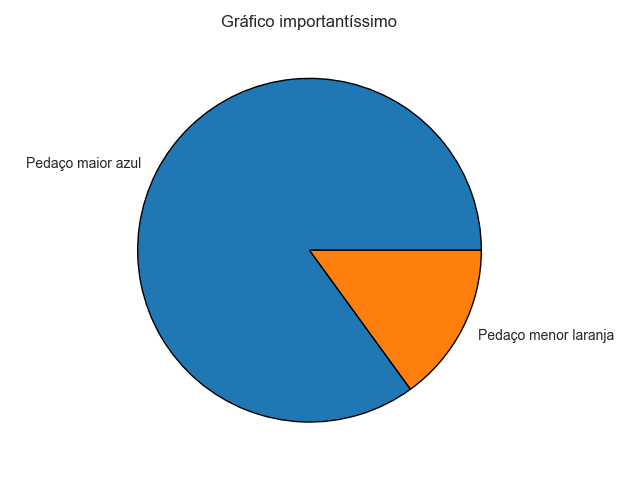
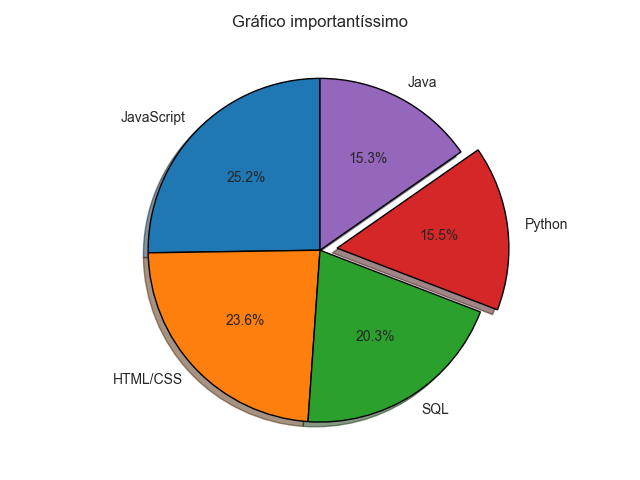
stackplots e pie charts

diff --git a/Python/Matplotlib/pie_chart/pie_chart.py b/Python/Matplotlib/pie_chart/pie_chart.py
@@ -4,12 +4,24 @@ from matplotlib import pyplot as plt
 
 plt.style.use('seaborn-v0_8-dark')
 
-fatias = [85, 15]
-labels = ["Pedaço maior azul", "Pedaço menor laranja"]
+# fatias = [150, 40, 35, 12]
+# labels = ["150", "40", '35', '12']
+# colors = ["#46B9AD", '#C33C91', '#A3CC33', '#001191']
 
-# Wedgeprops é um dicionário contendo configurações específicas para a torta
-# Documentação: 
-plt.pie(fatias, labels=labels, wedgeprops={'edgecolor': 'black'})
+# Language Popularity
+# slices = [59219, 55466, 47544, 36443, 35917, 31991, 27097, 23030, 20524, 18523, 18017, 7920, 7331, 7201, 5833]
+# labels = ['JavaScript', 'HTML/CSS', 'SQL', 'Python', 'Java', 'Bash/Shell/PowerShell', 'C#', 'PHP', 'C++', 'TypeScript', 'C', 'Other(s):', 'Ruby', 'Go', 'Assembly']
+slices = [59219, 55466, 47544, 36443, 35917]
+labels = ['JavaScript', 'HTML/CSS', 'SQL', 'Python', 'Java']
+
+# valores explodidos são exibidos mais evidentemente no pie chart, separados do gráfico. É representado por porcentagem do raio
+explode = [0, 0, 0, 0.1, 0]
+
+# Wedgeprops é um dicionário contendo configurações específicas para a torta. Vide a documentação de wedgedrops
+# Shadow é um argumento extra que adiciona sombrinha no gráfico
+# startangle é um argumento que define a quantos graus o matplotlib deve começar a plotar os itens. Rotação
+# autopct é um argumento que exibe a porcentagem de cada fatia, no formato especificado pelo usuário seguindo documentação
+plt.pie(slices, labels=labels, explode=explode, shadow=True, startangle=90, autopct='%1.1f%%', wedgeprops={'edgecolor': 'black'})
 
 plt.title("Gráfico importantíssimo")
 plt.tight_layout()

diff --git a/Python/Matplotlib/stack_plot/stack_plot.py b/Python/Matplotlib/stack_plot/stack_plot.py
@@ -1,0 +1,27 @@
+# Documentação https://matplotlib.org/stable/api/_as_gen/matplotlib.pyplot.stackplot.html#matplotlib.pyplot.stackplot
+
+from matplotlib import pyplot as plt
+
+plt.style.use('dark_background')
+
+# Data
+minutes = [1, 2, 3, 4, 5, 6, 7, 8, 9]
+player1 = [8, 6, 5, 5, 4, 2, 1, 1, 0]
+player2 = [0, 1, 2, 2, 2, 4, 4, 4, 4]
+player3 = [0, 1, 1, 1, 2, 2, 3, 3, 4]
+labels = ['player 1', 'player 2', 'player 3']
+colors = ["#0F00FF", '#FF00D8', '#00FFCA']
+
+# o primeiro item equivalerá ao X, seguido dos itens a serem plotados baseado no range das próprias listas
+plt.stackplot(minutes, player1, player2, player3, labels=labels, colors=colors)
+# sempre usar o método legend para aplicar a legenda(labels) na tela
+# a posição pode ser definida
+plt.legend(loc='upper right')
+
+plt.xlabel("Minutos")
+plt.ylabel("Pontuação")
+plt.title("StackPlot")
+plt.grid(True)
+plt.tight_layout()
+plt.savefig(r"Python/Matplotlib/stack_plot/simple_stack_plot.png")
+plt.show()
